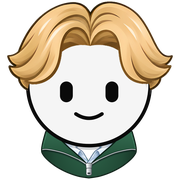
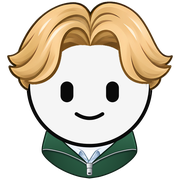
BWL Max: unter dem Kinn sauber – kein grauer Streifen, keine Schlieren im Hemd
Claude-Session: https://claude.ai/code/session_01Rrx3BPHrRPsxut6ZYjGyzy

diff --git a/tutor/index.html b/tutor/index.html
@@ -4,27 +4,27 @@
 <meta charset="utf-8">
 <meta name="viewport" content="width=device-width, initial-scale=1, viewport-fit=cover">
 <link rel="preload" as="image" href="/tutor/img/max-hair.webp" type="image/webp">
-<link rel="preload" as="image" href="/tutor/img/max-collar.webp?v=3" type="image/webp">
+<link rel="preload" as="image" href="/tutor/img/max-collar.webp?v=4" type="image/webp">
 <title>BWL Max – dein Tutor für BWL, VWL & Rechnungswesen</title>
 <meta name="description" content="Lade deinen Unistoff hoch – Vorlesung, Skript oder Altklausur – und lern mit BWL Max, dem Tutor, der an die Tafel schreibt: Erklärungen, Quizze, Karteikarten, Lernpfad, Podcast und Übungs-Trainer. Kostenlos, ohne Anmeldung.">
 <link rel="canonical" href="https://www.bwlmax.de/">
 <meta name="theme-color" content="#ffffff">
-<link rel="icon" href="/tutor/img/favicon.ico?v=7" sizes="48x48">
-<link rel="icon" type="image/png" sizes="48x48" href="/tutor/img/max-fav-48.png?v=7">
-<link rel="icon" type="image/png" sizes="96x96" href="/tutor/img/max-fav-96.png?v=7">
-<link rel="icon" type="image/png" sizes="192x192" href="/tutor/img/max-fav-192.png?v=7">
-<link rel="apple-touch-icon" href="/tutor/img/max-fav-180.png?v=7">
+<link rel="icon" href="/tutor/img/favicon.ico?v=8" sizes="48x48">
+<link rel="icon" type="image/png" sizes="48x48" href="/tutor/img/max-fav-48.png?v=8">
+<link rel="icon" type="image/png" sizes="96x96" href="/tutor/img/max-fav-96.png?v=8">
+<link rel="icon" type="image/png" sizes="192x192" href="/tutor/img/max-fav-192.png?v=8">
+<link rel="apple-touch-icon" href="/tutor/img/max-fav-180.png?v=8">
 <meta property="og:title" content="BWL Max – dein Tutor fürs Wirtschaftsstudium">
 <meta property="og:site_name" content="BWL Max">
 <meta name="application-name" content="BWL Max">
 <script type="application/ld+json">{"@context":"https://schema.org","@type":"WebSite","name":"BWL Max","alternateName":["BWL Max Tutor","Tutor BWL Max"],"url":"https://www.bwlmax.de/"}</script>
 <meta property="og:description" content="Lade deine Vorlesung hoch. Max erklärt sie dir – an der Tafel, mit Quiz, Karteikarten und Podcast.">
-<meta property="og:image" content="https://www.bwlmax.de/tutor/img/og-max.png?v=5">
+<meta property="og:image" content="https://www.bwlmax.de/tutor/img/og-max.png?v=6">
 <meta property="og:type" content="website">
 <meta name="twitter:card" content="summary_large_image">
 <link rel="preload" href="/tutor/fonts/Geist-Variable.woff2" as="font" type="font/woff2" crossorigin>
 <link rel="stylesheet" href="/tutor/css/app.css?v=99">
-<link rel="stylesheet" href="/tutor/css/trainer.css?v=7">
+<link rel="stylesheet" href="/tutor/css/trainer.css?v=8">
 <style>html.preload{background:#000}html.preload[data-theme=light]{background:#fff}html.preload body{opacity:0}html body{transition:opacity .25s ease}</style>
 <script>document.documentElement.classList.add('preload');setTimeout(function(){document.documentElement.classList.remove('preload')},2500);</script>
 <script>document.documentElement.dataset.theme='light';try{var t=sessionStorage.getItem('tutor.theme');if(t==='dark')document.documentElement.dataset.theme='dark'}catch(e){}var c='gruen';try{var v=localStorage.getItem('tutor.accent');if(v!=null)c=v}catch(e){}if(c&&c!=='std'&&/^[a-z]{3,12}$/.test(c))document.documentElement.dataset.accent=c;</script>
@@ -267,7 +267,7 @@ x* = 60.000 € ÷ 20 € = 3.000 Stück</div>
 
 <noscript><p style="padding:40px;text-align:center">Bitte aktiviere JavaScript, um BWL Max zu nutzen.</p></noscript>
 <script>(function(){if(/(^|\.)bwlmax\.de$/.test(location.hostname))document.querySelectorAll('[data-legal]').forEach(function(a){a.href='/'+a.dataset.legal});})();</script>
-<script src="/tutor/js/consent.js?v=7"></script>
+<script src="/tutor/js/consent.js?v=8"></script>
 <script type="module" src="/tutor/js/main.js?v=10"></script>
 </body>
 </html>

diff --git a/tutor/js/face.js b/tutor/js/face.js
@@ -7,7 +7,7 @@ const faces = new Set();
 // Haare einmal vorladen und dekodieren, damit jeder Kopf sofort mit Frisur erscheint
 const HAIR_SRC = '/tutor/img/max-hair.webp';
 const HAIR_IMG = new Image(); HAIR_IMG.src = HAIR_SRC;
-const COLLAR_SRC = '/tutor/img/max-collar.webp?v=3';
+const COLLAR_SRC = '/tutor/img/max-collar.webp?v=4';
 const COLLAR_IMG = new Image(); COLLAR_IMG.src = COLLAR_SRC;
 let UID = 0;
 let HAIR_READY = false;
@@ -217,7 +217,7 @@ function COLLAR(u) {
 <path fill="#122c1f" d="M346 684 C420 652 604 652 678 684 L652 702 C590 682 434 682 372 702 Z"/>
 <path fill="url(#fzn${u})" d="M362 640 L662 640 L660 700 L512 852 L364 700 Z"/>
 <clipPath id="fzv${u}"><path d="M362 640 L662 640 L660 700 L512 846 L364 700 Z"/></clipPath><image clip-path="url(#fzv${u})" href="${COLLAR_SRC}" x="296.5" y="609.83" width="431.8" height="289.92" preserveAspectRatio="none"/>
-<ellipse class="fzc-shade" clip-path="url(#fzk${u})" fill="#1b2533" cx="512" cy="509" rx="263" ry="258"/>
+
 <path fill="url(#fzu${u})" d="M512 838 C507.8 833.5 497 820.8 487 811 C477 801.2 463.5 789.2 452 779 C440.5 768.8 428.3 759.5 418 750 C407.7 740.5 398.8 731.5 390 722 C381.2 712.5 369.2 697.8 365 693 L348 678 Q340 680 327 689 C325.7 693.7 321.5 707.5 319 717 C316.5 726.5 313.6 737.7 312 746 C310.4 754.3 309.3 760.8 309.5 767 C309.7 773.2 309.4 776.5 313 783 C316.6 789.5 322.3 797.5 331 806 C339.7 814.5 353.3 825.8 365 834 C376.7 842.2 389.2 849 401 855 C412.8 861 424.2 865.7 436 870 C447.8 874.3 459.3 878.2 472 881 C484.7 883.8 505.3 886 512 887 C518.7 886 539.3 883.8 552 881 C564.7 878.2 576.2 874.3 588 870 C599.8 865.7 611.2 861 623 855 C634.8 849 647.3 842.2 659 834 C670.7 825.8 684.3 814.5 693 806 C701.7 797.5 707.4 789.5 711 783 C714.6 776.5 714.3 773.2 714.5 767 C714.7 760.8 713.6 754.3 712 746 C710.4 737.7 707.5 726.5 705 717 C702.5 707.5 698.3 693.7 697 689 Q684 680 676 678 L659 693 C654.8 697.8 642.8 712.5 634 722 C625.2 731.5 616.3 740.5 606 750 C595.7 759.5 583.5 768.8 572 779 C560.5 789.2 547 801.2 537 811 C527 820.8 516.2 833.5 512 838 Z"/>
 <path fill="url(#fzl${u})" d="M313.5 766 C313.4 765.8 323.2 764.2 333 765 C342.8 765.8 356.5 768.5 368 771 C379.5 773.5 390.5 776.2 402 780 C413.5 783.8 425.5 789 437 794 C448.5 799 461 804.7 471 810 C481 815.3 490.3 821.5 497 826 C503.7 830.5 508.7 835.2 511 837 C511.3 837 512.7 837 513 837 C515.3 835.2 520.3 830.5 527 826 C533.7 821.5 543 815.3 553 810 C563 804.7 575.5 799 587 794 C598.5 789 610.5 783.8 622 780 C633.5 776.2 644.5 773.5 656 771 C667.5 768.5 681.2 765.8 691 765 C700.8 764.2 710.6 765.8 714.5 766 C713.9 769.7 714.6 776.5 711 783 C707.4 789.5 701.7 797.5 693 806 C684.3 814.5 670.7 825.8 659 834 C647.3 842.2 634.8 849 623 855 C611.2 861 599.8 865.7 588 870 C576.2 874.3 564.7 878.2 552 881 C539.3 883.8 518.7 886 512 887 C505.3 886 484.7 883.8 472 881 C459.3 878.2 447.8 874.3 436 870 C424.2 865.7 412.8 861 401 855 C389.2 849 376.7 842.2 365 834 C353.3 825.8 339.7 814.5 331 806 C322.3 797.5 316.6 789.5 313 783 C309.4 776.5 310.1 769.7 309.5 767 Z"/>
 <path fill="none" stroke="#0b111a" stroke-width="9" opacity=".32" stroke-linecap="round" transform="translate(0 5)" d="M313.5 766 C313.4 765.8 323.2 764.2 333 765 C342.8 765.8 356.5 768.5 368 771 C379.5 773.5 390.5 776.2 402 780 C413.5 783.8 425.5 789 437 794 C448.5 799 461 804.7 471 810 C481 815.3 490.3 821.5 497 826 C503.7 830.5 508.7 835.2 511 837 M710.5 766 C710.6 765.8 700.8 764.2 691 765 C681.2 765.8 667.5 768.5 656 771 C644.5 773.5 633.5 776.2 622 780 C610.5 783.8 598.5 789 587 794 C575.5 799 563 804.7 553 810 C543 815.3 533.7 821.5 527 826 C520.3 830.5 515.3 835.2 513 837"/>
